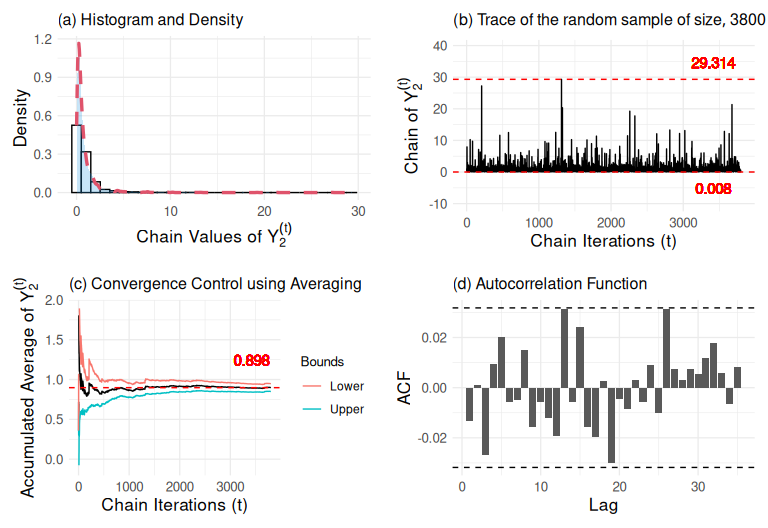
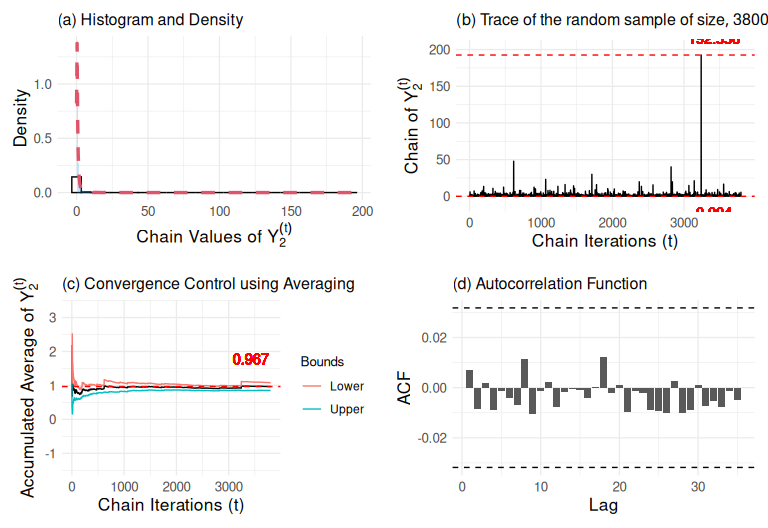
update

diff --git a/randomsamples.md b/randomsamples.md
@@ -3,7 +3,7 @@ RandomSample
 
 # Introduction
 
-This document presents a simulation framework for generating random
+This Markdown presents a simulation framework for generating random
 samples from a newly proposed bivariate probability distribution,
 characterized by the parameter vector $\phi = (a, b, c, d)$ and the
 following joint probability density function:
@@ -92,16 +92,16 @@ values of the **precision parameter** (used in the proposal
 distribution) and the **conditioning variable** $X_2 = v$
 
 ``` r
-df_ess_ar <- results_Mon_Measure(N=10^4, prop_prec_values=seq(1, 20, by = 1), a=a1, b=b1, c=c1, d=d1, v_values=seq(0.01, 0.24, length.out = 10),thin = 5,burnin = 1000,target_acceptance = 0.4)
- df_rhat <- results_Mon_R_Hat(N=10^4, prop_prec_values=seq(1, 20, by = 1), a=a1, b=b1, c=c1, d=d1, v_values=seq(0.01, 0.24, length.out = 10),thin = 5,burnin = 1000,target_acceptance = 0.4)
+df_ess_ar <- results_Mon_Measure(N=10^4, prop_prec_values=seq(1, 20, by = 1), a=a1, b=b1, c=c1, d=d1, v_values=seq(0.01, 0.24, length.out = 10),thin = 2,burnin = 1000,target_acceptance = 0.4)
+ df_rhat <- results_Mon_R_Hat(N=10^4, prop_prec_values=seq(1, 20, by = 1), a=a1, b=b1, c=c1, d=d1, v_values=seq(0.01, 0.24, length.out = 10),thin = 2,burnin = 1000,target_acceptance = 0.4)
 ```
 
 The desired convergence behavior is as follows: - The **acceptance
 rate** (Figure 3b) should ideally remain between **0.3 and 0.7**. - The
 **effective sample size** (Figure 3a) should be close to the post
 burn-in sample size. For the configuration used in this study, the ESS
-is expected to exceed **465** and approach $(10^4 - 1000) / 5 = 1800$,
-given the thinning interval of 5 and burn-in of 1000 from a total of
+is expected to exceed **465** and approach $(10^4 - 1000) / 2 = 4500$,
+given the thinning interval of 2 and burn-in of 1000 from a total of
 10,000 iterations.
 
 Additionally, the **R-hat diagnostic** (Figure 3c) is computed to
@@ -126,14 +126,18 @@ Generate_Figure3_Panels(df_ess_ar, df_rhat, prop_prec_values=seq(1, 20, by = 1))
 
 ![](randomsamples_files/figure-gfm/unnamed-chunk-4-1.png)<!-- -->
 
-## Another random sample generated for the conditional distribution of $X_1$ given $X_2$
+## Another Random Sample from the Conditional Distribution of $X_1$ given $X_2$
 
-Another sample of size $N=10^5$ is generated using
-$\phi = (2.2, 2.2, 2.2, 2.2)$ with a precision of 3, thinning of 25,
-burn-in of 5000, $X_2 = v = 0.05$, and target acceptance of 0.4. This
-latter value controls the increase or decrease of the precision during
-the simulation, meaning the algorithm adjusts itself, which allows for a
-rapid reduction in the autocorrelation of the chain.
+A new sample of size $N = 10^5$ was generated from the conditional
+distribution of $X_1$ given $X_2 = v = 0.05$, using the parameter vector
+$\phi = (2.2, 2.2, 2.2, 2.2)$. The simulation was configured with a
+precision parameter of 3, a thinning interval of 25, a burn-in of 5000
+iterations, and a target acceptance rate of 0.4. This acceptance rate
+governs the adaptive adjustment of the precision parameter $\varphi$
+during the burn-in period, allowing the algorithm to automatically
+increase or decrease precision in response to the observed acceptance
+rate. This mechanism facilitates faster reduction in autocorrelation and
+improves the overall mixing of the chain.
 
 ``` r
 ExampleFC_X1_X2=Gen_FC_X1_X2(N=10^5, prop_prec = 3, a=a1, b=b1, c=c1, d=d1, v=0.05, option="all",thin = 25, burnin = 5000, X10_given = "random", target_acceptance = 0.4, dig_tol=15)
@@ -144,10 +148,11 @@ Graphs(as.data.frame(ExampleFC_X1_X2$thinned_chain), "X1", width = 40, lscatt = 
 
 ![](randomsamples_files/figure-gfm/unnamed-chunk-5-1.png)<!-- -->
 
-For the results of ExampleFC_X1_X2, the following table presents the
-acceptance rate before and after the burn-in period, the effective
-sample size, chain length, and the adjusted precision value. The
-adjustment period corresponds to the burn-in segment of the chain.
+The results of the `ExampleFC_X1_X2` simulation are summarized in the
+following table, which reports the acceptance rate before and after the
+burn-in period, the effective sample size (ESS), the final chain length,
+and the final value of the adjusted precision parameter. The adjustment
+process is limited to the burn-in phase of the simulation.
 
 ``` r
 library(knitr)
@@ -165,15 +170,17 @@ df
 ```
 
     ##                    Acceptance.Rate Acceptance.Rate.Post.Burn.in      ESS Length
-    ## Chain Measurements       0.5641456                    0.5630901 3233.412   3800
+    ## Chain Measurements       0.5588156                     0.558048 3279.327   3800
     ##                    Precision
-    ## Chain Measurements  2.991442
+    ## Chain Measurements  2.992333
 
 ## Convergence Monitoring with Fixed Seeds
 
-The previously simulated samples assumed that the seed was generated
-randomly. Now, we consider nine user-specified seeds and monitor the
-convergence of the mean of each generated chain.
+In the previous simulations, the random number generator seed was
+selected randomly for each run. In this section, we instead fix nine
+user-defined seeds to examine the impact of initial conditions on the
+convergence behavior of the Markov chains. Specifically, we assess the
+stability of the posterior mean estimate for each generated chain.
 
 ``` r
 N=10^5;burnin=5000;thin=25; target_acceptance=0.4
@@ -202,23 +209,26 @@ ExampleFC_X1_X2_seedgiven_cum$Sim=rep(1:N,9)
       plot.margin = margin(10, 10, 10, 10)
     )
 # Graphic
-Piece1_Grap_FC=ggplot(ExampleFC_X1_X2_seedgiven_cum,aes(x=Sim ,y=FCmu,group= Seed, color=Seed))+geom_line()+ylab(expression("Accumulated Average " ~ hat(X)[1]^(t)))+xlab("Chain Iterations (t)")+xlim(0,50)+custom_theme
+Piece1_Grap_FC=ggplot(ExampleFC_X1_X2_seedgiven_cum,aes(x=Sim ,y=FCmu,group= Seed, color=Seed))+geom_line()+ylab(expression("Accumulated Average " ~ hat(X)[1]^(t)))+xlab("Chain Iterations (t)")+xlim(0,50)+labs(title = "(a)")+custom_theme
 
-Piece2_Grap_FC=ggplot(ExampleFC_X1_X2_seedgiven_cum,aes(x=Sim ,y=FCmu,group= Seed, color=Seed))+geom_line()+ylab(expression("Accumulated Average " ~ hat(X)[1]^(t)))+xlab("Chain Iterations (t)")+xlim(0,250)+custom_theme
+Piece2_Grap_FC=ggplot(ExampleFC_X1_X2_seedgiven_cum,aes(x=Sim ,y=FCmu,group= Seed, color=Seed))+geom_line()+ylab(expression("Accumulated Average " ~ hat(X)[1]^(t)))+xlab("Chain Iterations (t)")+xlim(0,250)+labs(title = "(b)")+custom_theme
 
-Full_Grap_FC=ggplot(ExampleFC_X1_X2_seedgiven_cum,aes(x=Sim ,y=FCmu,group= Seed, color=Seed))+geom_line()+ylab(expression("Accumulated Average " ~ hat(X)[1]^(t)))+xlab("Chain Iterations (t)")+custom_theme
+Full_Grap_FC=ggplot(ExampleFC_X1_X2_seedgiven_cum,aes(x=Sim ,y=FCmu,group= Seed, color=Seed))+geom_line()+ylab(expression("Accumulated Average " ~ hat(X)[1]^(t)))+xlab("Chain Iterations (t)")+labs(title = "(c)")+custom_theme
 
 grid.arrange(arrangeGrob(Piece1_Grap_FC, Piece2_Grap_FC, Full_Grap_FC,ncol=2, nrow=2, widths=c(2, 2), heights=c(2,2),layout_matrix=rbind(c(1,2),c(3,3))),bottom="Convergence control using averaging")
 ```
 
 ![](randomsamples_files/figure-gfm/unnamed-chunk-7-1.png)<!-- -->
 
+The posterior mean of each \$X_1\$ chain generated under the nine fixed
+seeds is presented in the following table:
+
 ``` r
 round(apply(ExampleFC_X1_X2_seedgiven[1:3800,], 2, mean),3)
 ```
 
     ##   0.1   0.2   0.3   0.4   0.5   0.6   0.7   0.8   0.9 
-    ## 0.500 0.502 0.498 0.500 0.503 0.494 0.499 0.501 0.502
+    ## 0.505 0.496 0.499 0.497 0.507 0.503 0.493 0.499 0.498
 
 # Gibbs Sampling
 
@@ -233,7 +243,7 @@ density versus histogram, trace, cumulative mean, and autocorrelation.
 
 ``` r
 N=10^5
-Example_Joint_Dist=Gen_Joint_Dist(N1 = N,N2 = 2,prop_prec = 3,a1,b1,c1,d1,thin = 2,X10_given ="random",target_acceptance = 0.4)
+Example_Joint_Dist=Gen_Joint_Dist(N1 = N,N2 = 102,prop_prec = 3,a1,b1,c1,d1,thin = 2,X10_given ="random",target_acceptance = 0.4,batch_adapt_acceptance_rate=20)
 burnin=5000;thin=25
 Graphs(as.data.frame(Example_Joint_Dist$X2[seq((burnin+1), N, by=thin)]),"X2",width = 40,uscatt = 0.06,lscatt = 0.05)
 ```
@@ -252,7 +262,7 @@ Graphs(as.data.frame(Example_Joint_Dist$X1[seq((burnin+1), N, by=thin)]),"X1",wi
 
 ### Contour Plots and Scatter Plot for the Generated Sample of $(X_1, X_2)$
 
-The scatter plot of the generated sample Example_Joint_Dist is plotted
+The scatter plot of the generated sample `Example_Joint_Dist` is plotted
 over the contour lines associated with the bivariate distribution
 $(X_1, X_2)$ with parameters $\phi = (2.2, 2.2, 2.2, 2.2)$.
 
@@ -273,7 +283,7 @@ ggplot()+geom_contour(aes(dta$X1, dta$X2, z = (dta$Z)),bins = 50) +
 
 ### Convergence Monitoring
 
-The generated sample Example_Joint_Dist for the vector $(X_1, X_2)$ is
+The generated sample `Example_Joint_Dist` for the vector $(X_1, X_2)$ is
 now transformed into a sample for the vector $(Y_1, Y_2)$ using the
 transformation presented at the beginning of this document. For
 convergence monitoring of the chains for $Y_1$ and $Y_2$, the density
@@ -322,77 +332,168 @@ ggplot()+geom_contour(aes(dta$X1, dta$X2, z = dta$Z),bins = 50)+
 
 # Comparison Between Numerical and Analytical Moments
 
-The function Measure_Diagnostic is used with the sample
-Example_Joint_Dist to determine the numerical moments, analytical
-moments, and the difference between them for the vector $(Y_1, Y_2)$. In
-the implementation of this function, a burn-in of 5000 and a thinning of
-25 are used.
+The function `Measure_Diagnostic` was applied to the sample
+`Example_Joint_Dist` to compute the numerical moments, the corresponding
+theoretical values, and their differences for the vector $(Y_1, Y_2)$.
+The function was executed using a burn-in of 5000 iterations and a
+thinning interval of 25.
 
 ``` r
 results_measure_diag=Measure_Diagnostic(data1 = Example_Joint_Dist$X1,data2 = Example_Joint_Dist$X2, var ="transform", digits = 4, a = a1, b = b1, c = c1, d = d1, burnin = 5000, thin = 25)
 ```
 
-The numerical results were:
+The table below summarizes the numerical estimates, theoretical values,
+and their respective differences for key descriptive measures.
 
 ``` r
-results_measure_diag$Numerical
+library(knitr)
+library(kableExtra)
+
+numerical_df <- as.data.frame.matrix(t(results_measure_diag$Numerical))
+analytical_df <- as.data.frame.matrix(t(results_measure_diag$Analytical))
+differences_df <- as.data.frame.matrix(t(results_measure_diag$Differences)) 
+
+# Combinamos los tres data frames en uno solo
+combined_df <- cbind(numerical_df, analytical_df[,1],differences_df[,1])
+names(combined_df)=c("Numerical Results", "Theoretical Results", "Differences")
+
+# Creamos la tabla con kable y le aplicamos estilo
+combined_df %>%
+  kable(caption = "Summary Statistics for Different Measures", digits = 3)
 ```
 
-    ##   Mean_Y1 Var_Y1 ESS_Y1 Mean_Y2 Var_Y2 ESS_Y2    Cov Length
-    ## 1  0.8859 2.5196   3800  0.8981 2.3915   3800 1.6648   3800
+|                | Numerical Results | Theoretical Results | Differences |
+|:---------------|------------------:|--------------------:|------------:|
+| Mean_X1        |             0.893 |               0.917 |       0.024 |
+| Var_X1         |             2.479 |               7.851 |       5.372 |
+| ESS_X1         |          3800.000 |            3800.000 |       0.000 |
+| STDERR_Mean_X1 |             0.025 |                  NA |          NA |
+| STDERR_Var_X1  |             0.422 |                  NA |          NA |
+| CI_Mean1_Lower |             0.040 |                  NA |          NA |
+| CI_Mean1_Upper |             4.406 |                  NA |          NA |
+| CI_Var1_Lower  |             1.681 |                  NA |          NA |
+| CI_Var1_Upper  |             3.492 |                  NA |          NA |
+| Mean_X2        |             0.967 |               0.917 |      -0.050 |
+| Var_X2         |            13.128 |               7.851 |      -5.277 |
+| ESS_X2         |          3800.000 |            3800.000 |       0.000 |
+| STDERR_Mean_X2 |             0.059 |                  NA |          NA |
+| STDERR_Var_X2  |             9.642 |                  NA |          NA |
+| CI_Mean2_Lower |             0.036 |                  NA |          NA |
+| CI_Mean2_Upper |             4.424 |                  NA |          NA |
+| CI_Var2_Lower  |             2.378 |                  NA |          NA |
+| CI_Var2_Upper  |            33.436 |                  NA |          NA |
+| Cov            |             3.345 |               5.135 |       1.790 |
+| STDERR_Cov     |             1.730 |                  NA |          NA |
+| CI_Cov_Lower   |             1.224 |                  NA |          NA |
+| CI_Cov_Upper   |             7.189 |                  NA |          NA |
+| Length         |          3800.000 |            3800.000 |       0.000 |
 
-The analytical results were:
+Summary Statistics for Different Measures
+
+The Gelman–Rubin diagnostic (R-hat) was computed for the chains of $Y_1$
+and $Y_2$ generated using the same configuration: $10^5$ iterations, a
+burn-in of 5000, thinning of 25, and a precision parameter
+$\varphi = 3$. The R-hat calculation was based on three independent
+chains, as illustrated in the following code block.
 
 ``` r
-results_measure_diag$Analytical
+sample1 = Gen_Joint_Dist(N1 = 10^5,N2 = 2,prop_prec = 3,a1,b1,c1,d1,thin = 2,X10_given ="random",target_acceptance = 0.4)
+
+sample2 = Gen_Joint_Dist(N1 = 10^5,N2 = 2,prop_prec = 3,a1,b1,c1,d1,thin = 2,X10_given ="random",target_acceptance = 0.4)
+
+sample3 = Gen_Joint_Dist(N1 = 10^5,N2 = 2,prop_prec = 3,a1,b1,c1,d1,thin = 2,X10_given ="random",target_acceptance = 0.4)
+
+burnin=5000;thin=25
+
+Gelm_Rud_X1 = gelman.diag(list(mcmc(sample1$X1[seq((burnin+1), N, by=thin)]), mcmc(sample2$X1[seq((burnin+1), N, by=thin)]),mcmc(sample3$X1[seq((burnin+1), N, by=thin)])))$psrf[1]
+
+Gelm_Rud_X2 = gelman.diag(list(mcmc(sample1$X2[seq((burnin+1), N, by=thin)]), mcmc(sample2$X2[seq((burnin+1), N, by=thin)]),mcmc(sample3$X2[seq((burnin+1), N, by=thin)])))$psrf[1]
+
+print(c(Gelm_Rud_X1,Gelm_Rud_X2))
 ```
 
-    ##   Mean_Y1 Var_Y1 ESS_Y1 Mean_Y2 Var_Y2 ESS_Y2   Cov Length
-    ## 1  0.9167 7.8511   3800  0.9167 7.8511   3800 5.135   3800
+    ## [1] 0.9998731 1.0005821
 
-The difference between the numerical and analytical descriptive measures
-is as follows:
+# Comparison Using an Alternative Parameter Configuration
 
-``` r
-results_measure_diag$Differences
-```
-
-    ##   Mean_Y1 Var_Y1 ESS_Y1 Mean_Y2 Var_Y2 ESS_Y2    Cov Length
-    ## 1  0.0308 5.3315      0  0.0186 5.4596      0 3.4702      0
-
-# Comparison Using a Different Parameter Configuration
+To further evaluate the performance of the simulation scheme, an
+alternative parameter vector $\phi = (3, 6, 3, 6)$ was considered. The
+simulation setup remains the same as in the previous sections, except
+that the thinning factor was reduced to 5.
 
 ``` r
 a2=3;b2=6;c2=3;d2=6
-Example_Joint_Dist1=Gen_Joint_Dist(N1 = 10^5,N2 = 2,prop_prec=4,a = a2,b = b2,c = c2,d = d2,thin = 5, X10_given = "random",target_acceptance = 0.4)
+Example_Joint_Dist1=Gen_Joint_Dist(N1 = 10^5,N2 = 2,prop_prec=3,a = a2,b = b2,c = c2,d = d2,thin = 2, X10_given = "random",target_acceptance = 0.4)
 
-results_measure_diag1=Measure_Diagnostic(data1 = Example_Joint_Dist1$X1,data2 = Example_Joint_Dist1$X2, var ="transform", digits = 4, a = a2, b = b2, c = c2, d = d2, burnin = 5000, thin = 5)
+results_measure_diag1=Measure_Diagnostic(data1 = Example_Joint_Dist1$X1,data2 = Example_Joint_Dist1$X2, var ="transform", digits = 3, a = a2, b = b2, c = c2, d = d2, burnin = 5000, thin = 5)
 ```
 
-The numerical results were:
+The table below presents the updated numerical estimates, theoretical
+values, and their differences under this new configuration.
 
 ``` r
-results_measure_diag1$Numerical
+library(knitr)
+library(kableExtra)
+
+numerical_df <- as.data.frame.matrix(t(results_measure_diag1$Numerical))
+analytical_df <- as.data.frame.matrix(t(results_measure_diag1$Analytical))
+differences_df <- as.data.frame.matrix(t(results_measure_diag1$Differences)) 
+
+# Combinamos los tres data frames en uno solo
+combined_df <- cbind(numerical_df, analytical_df[,1],differences_df[,1])
+names(combined_df)=c("Numerical Results", "Theoretical Results", "Differences")
+
+# Creamos la tabla con kable y le aplicamos estilo
+combined_df %>%
+  kable(caption = "Summary Statistics for Different Measures", digits = 3) 
 ```
 
-    ##   Mean_Y1 Var_Y1   ESS_Y1 Mean_Y2 Var_Y2 ESS_Y2    Cov Length
-    ## 1  1.0659 1.5674 18507.72  1.8793 4.0436  19000 1.8981  19000
+|                | Numerical Results | Theoretical Results | Differences |
+|:---------------|------------------:|--------------------:|------------:|
+| Mean_X1        |             1.083 |                 1.0 |      -0.083 |
+| Var_X1         |             1.690 |                 1.8 |       0.110 |
+| ESS_X1         |         19609.108 |             19000.0 |    -609.108 |
+| STDERR_Mean_X1 |             0.009 |                  NA |          NA |
+| STDERR_Var_X1  |             0.150 |                  NA |          NA |
+| CI_Mean1_Lower |             0.145 |                  NA |          NA |
+| CI_Mean1_Upper |             4.089 |                  NA |          NA |
+| CI_Var1_Lower  |             1.429 |                  NA |          NA |
+| CI_Var1_Upper  |             2.022 |                  NA |          NA |
+| Mean_X2        |             1.932 |                 2.0 |       0.068 |
+| Var_X2         |             5.171 |                 5.8 |       0.629 |
+| ESS_X2         |         19000.000 |             19000.0 |       0.000 |
+| STDERR_Mean_X2 |             0.016 |                  NA |          NA |
+| STDERR_Var_X2  |             0.690 |                  NA |          NA |
+| CI_Mean2_Lower |             0.311 |                  NA |          NA |
+| CI_Mean2_Upper |             6.895 |                  NA |          NA |
+| CI_Var2_Lower  |             4.002 |                  NA |          NA |
+| CI_Var2_Upper  |             6.742 |                  NA |          NA |
+| Cov            |             2.224 |                 2.2 |      -0.024 |
+| STDERR_Cov     |             0.211 |                  NA |          NA |
+| CI_Cov_Lower   |             1.845 |                  NA |          NA |
+| CI_Cov_Upper   |             2.688 |                  NA |          NA |
+| Length         |         19000.000 |             19000.0 |       0.000 |
 
-The analytical results were:
+Summary Statistics for Different Measures
+
+The R-hat values for the chains of $Y_1$ and $Y_2$, generated under the
+new parameter configuration, burn-in, and thinning settings, are
+reported below:
 
 ``` r
-results_measure_diag1$Analytical
+sample1 = Gen_Joint_Dist(N1 = 10^5,N2 = 2,prop_prec = 3,a2,b2,c2,d2,thin = 2,X10_given ="random",target_acceptance = 0.4)
+
+sample2 = Gen_Joint_Dist(N1 = 10^5,N2 = 2,prop_prec = 3,a2,b2,c2,d2,thin = 2,X10_given ="random",target_acceptance = 0.4)
+
+sample3 = Gen_Joint_Dist(N1 = 10^5,N2 = 2,prop_prec = 3,a2,b2,c2,d2,thin = 2,X10_given ="random",target_acceptance = 0.4)
+
+burnin=5000;thin=25
+
+Gelm_Rud_X1 = gelman.diag(list(mcmc(sample1$X1[seq((burnin+1), N, by=thin)]), mcmc(sample2$X1[seq((burnin+1), N, by=thin)]),mcmc(sample3$X1[seq((burnin+1), N, by=thin)])))$psrf[1]
+
+Gelm_Rud_X2 = gelman.diag(list(mcmc(sample1$X2[seq((burnin+1), N, by=thin)]), mcmc(sample2$X2[seq((burnin+1), N, by=thin)]),mcmc(sample3$X2[seq((burnin+1), N, by=thin)])))$psrf[1]
+
+print(c(Gelm_Rud_X1,Gelm_Rud_X2))
 ```
 
-    ##   Mean_Y1 Var_Y1 ESS_Y1 Mean_Y2 Var_Y2 ESS_Y2 Cov Length
-    ## 1       1    1.8  19000       2    5.8  19000 2.2  19000
-
-The difference between the numerical and analytical descriptive measures
-is as follows:
-
-``` r
-results_measure_diag1$Differences
-```
-
-    ##   Mean_Y1 Var_Y1   ESS_Y1 Mean_Y2 Var_Y2 ESS_Y2    Cov Length
-    ## 1 -0.0659 0.2326 492.2768  0.1207 1.7564      0 0.3019      0
+    ## [1] 0.9999085 1.0001929
